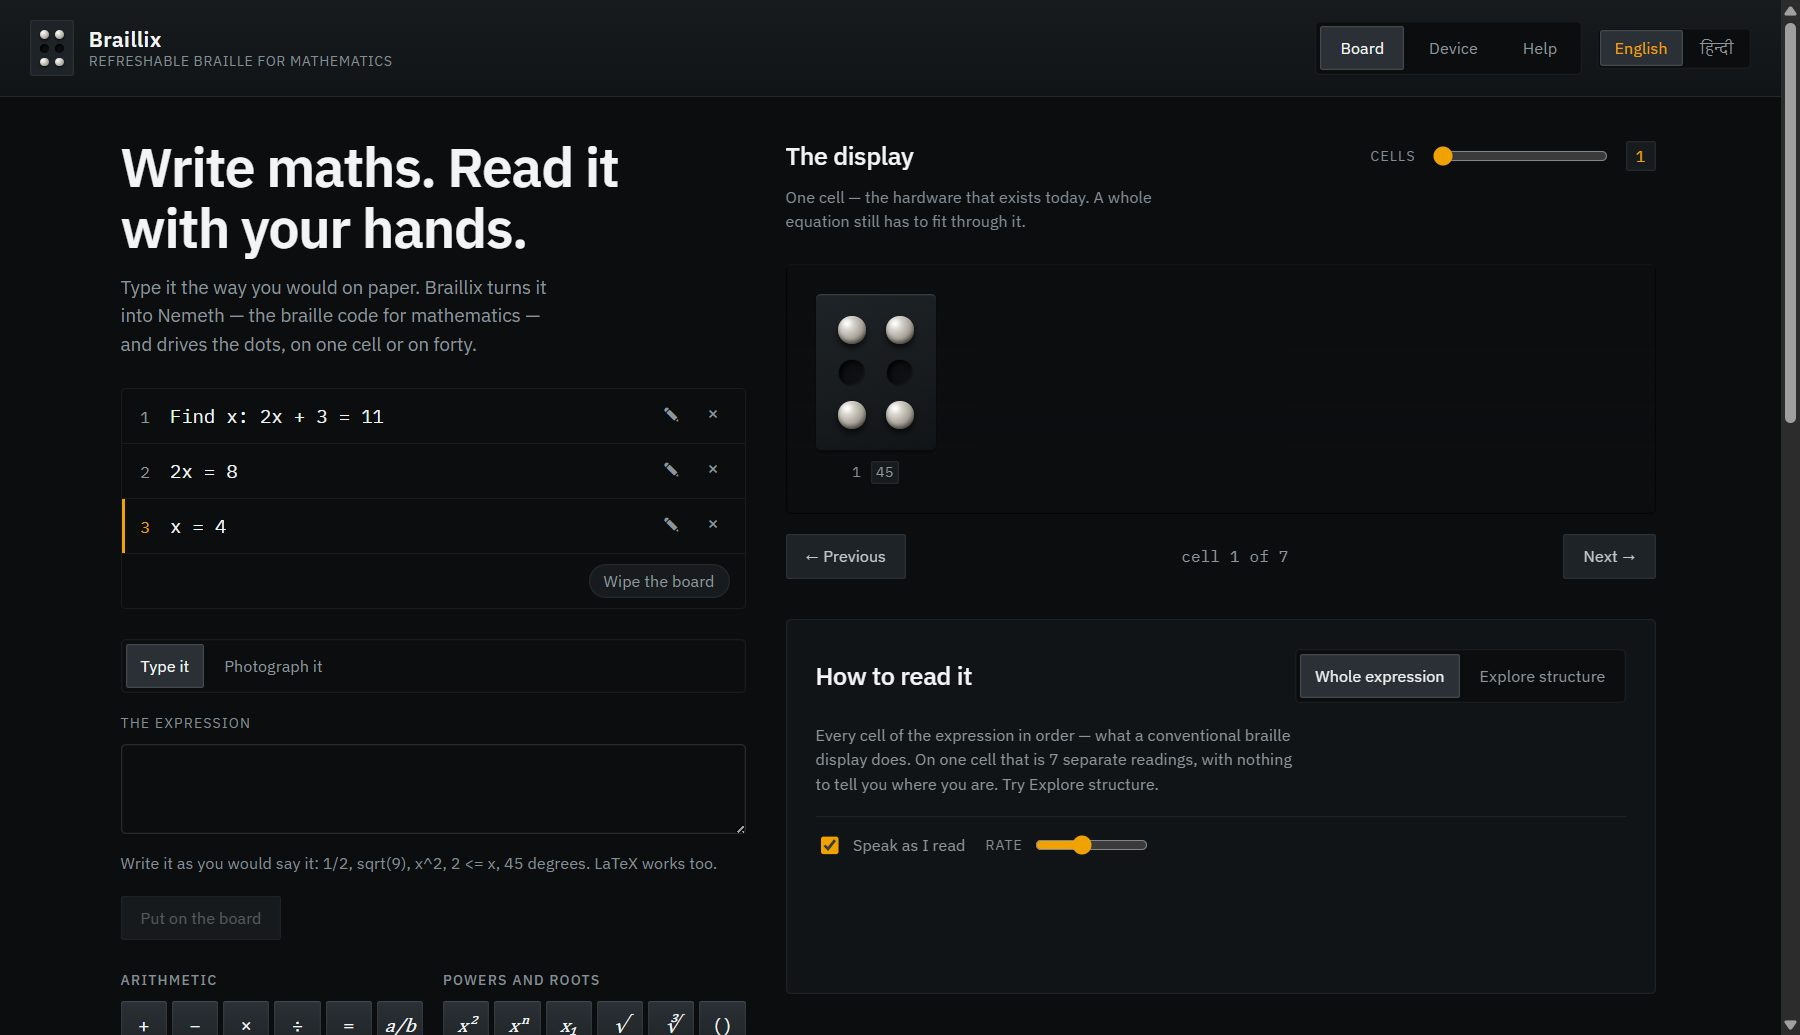
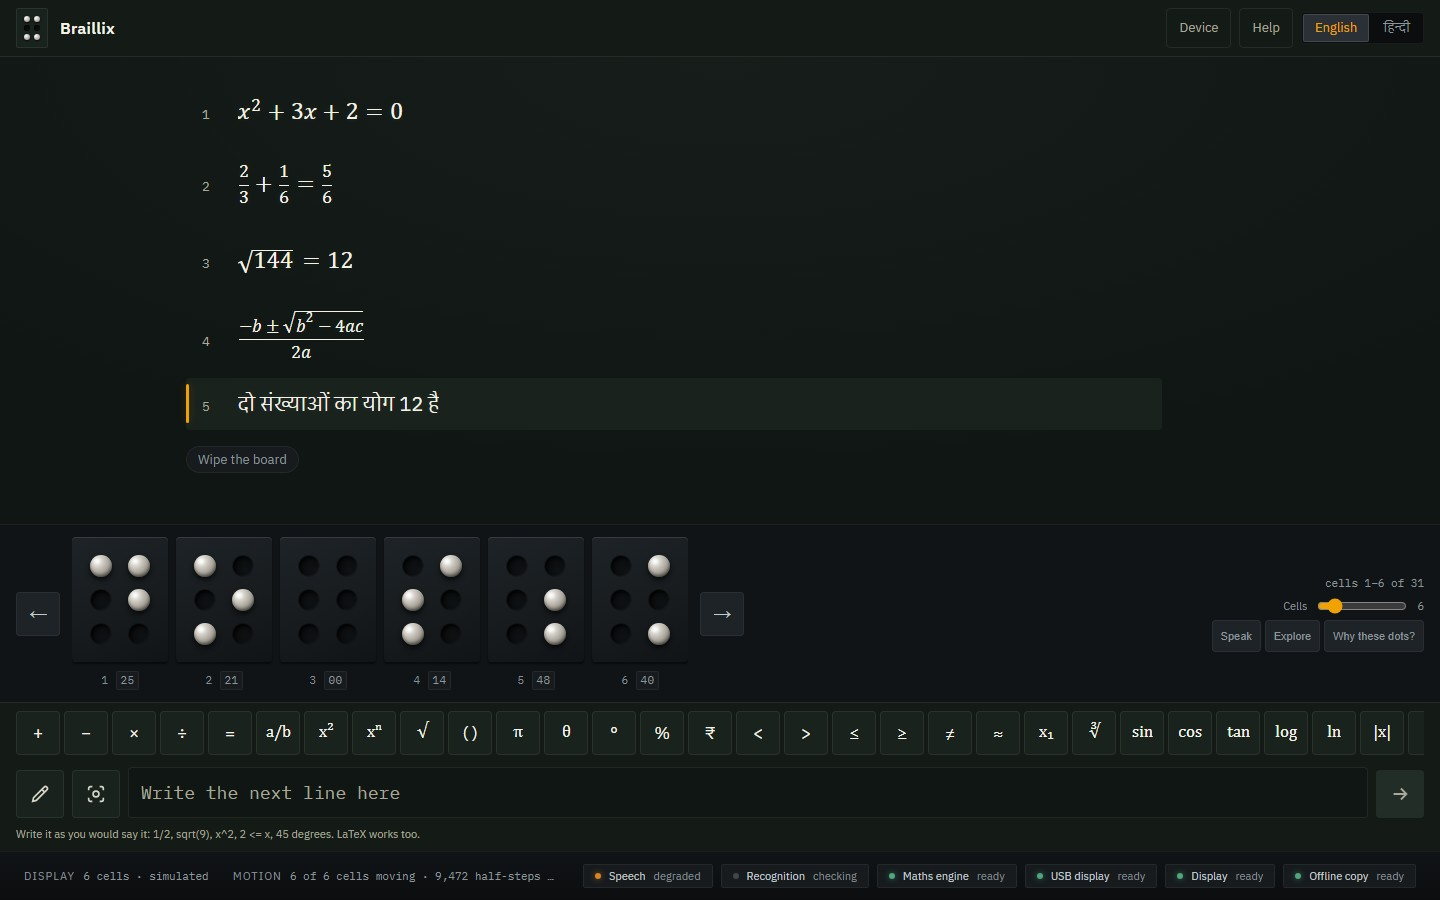
checkpoint(v4/ARC-4): shipped — live heroes, report pack, demo script
Deployed the blackboard to braillix.vercel.app (21/21 deployed-asset checks).
README carries three fresh production captures: the lesson as chalk, the ink
moment (strokes -> reading -> verdict), and the 175/175 syllabus proof at 0.8s
live. REPORT.md updated from the final codebase (v4 surface, in-place
handwriting with its evidence, 101 e2e incl. the ink journeys); DEMO.md is one
page for the panel. Help step 5 now names the pencil. Stale v3 screenshots
removed.

Gates at commit: tsc 0 · lint 0 · unit 666/666 · e2e 101/101.

diff --git a/app/src/ui/i18n.ts b/app/src/ui/i18n.ts
@@ -289,7 +289,7 @@ const STRINGS: Readonly<Record<string, readonly [en: string, hi: string]>> = {
   'help.step2': ['Press Enter and the line goes on the board. Teach the way you write on a blackboard — the question, then the working, line by line. Every line stays on the board, and one press shows any of them again.', 'Enter दबाइए और पंक्ति बोर्ड पर चली जाती है। जैसे ब्लैकबोर्ड पर लिखकर पढ़ाते हैं वैसे ही पढ़ाइए — पहले सवाल, फिर हल, पंक्ति दर पंक्ति। हर पंक्ति बोर्ड पर बनी रहती है, और एक दबाने से फिर दिख जाती है।'],
   'help.step3': ['The display’s arrows — and the Prev/Next buttons on the pod itself — walk the whole lesson: through a long line first, then on to the next line of the working. PageUp and PageDown do the same from the keyboard.', 'डिस्प्ले के तीर — और पॉड के अपने Prev/Next बटन — पूरा पाठ चलकर पढ़ते हैं: पहले लंबी पंक्ति के भीतर, फिर हल की अगली पंक्ति पर। कीबोर्ड से PageUp और PageDown यही करते हैं।'],
   'help.step4': ['With one cell, use Explore structure — a long expression folds into a few cells you can step into.', 'एक ही सेल हो तो “रचना देखिए” चलाइए — लंबा व्यंजक कुछ सेल में सिमट जाता है, जिनमें अंदर जाया जा सकता है।'],
-  'help.step5': ['Scan a question straight out of the textbook with “Photograph it”. Check the reading it shows you — in print and read aloud — and only then put it on the board. Nothing reaches the display until you approve it.', '“फ़ोटो लीजिए” से सवाल सीधे किताब से स्कैन कीजिए। जो पढ़ाई वह दिखाए उसे जाँचिए — छपाई में और बोलकर — और तभी बोर्ड पर भेजिए। आपकी मंज़ूरी के बिना कुछ भी डिस्प्ले तक नहीं पहुँचता।'],
+  'help.step5': ['Write by hand with the pencil, or scan a question straight out of the textbook with the camera. Check the reading it shows you — in print, in braille verdict, read aloud — and only then put it on the board. Nothing reaches the display until you approve it.', 'पेंसिल से हाथ से लिखिए, या कैमरे से सवाल सीधे किताब से स्कैन कीजिए। जो पढ़ाई वह दिखाए उसे जाँचिए — छपाई में, ब्रेल जाँच में, और बोलकर — और तभी बोर्ड पर भेजिए। आपकी मंज़ूरी के बिना कुछ भी डिस्प्ले तक नहीं पहुँचता।'],
 
   'help.keys': ['Keys worth knowing', 'काम के बटन'],
   'help.keysReader': ['move through the expression', 'व्यंजक में चलिए'],

diff --git a/docs/REPORT.md b/docs/REPORT.md
@@ -88,7 +88,7 @@ drills, student records, and any language beyond English and Hindi.
 | Word recognition | tesseract.js 7 (Apache-2.0) with tessdata_fast English + Hindi, fully self-hosted | The words of a textbook question, both scripts, offline |
 | Speech output | Web Speech API, voices from the operating system | Free and offline; absence of a voice is reported, never silent |
 | Hardware link | Custom `Transport` interface with three implementations: simulator, Web Serial (USB), HTTP (Wi-Fi pods) | One interface means the app cannot behave differently on hardware than in the simulator |
-| Testing | Vitest 4 (666 unit tests), Playwright 1.62 (97 end-to-end journeys with screenshots at 390/834/1440 px) | See §7 |
+| Testing | Vitest 4 (666 unit tests), Playwright 1.62 (101 end-to-end journeys with screenshots at 390/834/1440 px) | See §7 |
 | Deployment | Vercel, static, free tier | No server component exists |
 
 Everything is served from the application's own origin — fonts, braille tables, both
@@ -174,8 +174,8 @@ badge, so the teacher's first scan does not pay the load cost.
 |---|---|
 | Unit tests (Vitest) | 666 / 666 passing |
 | TypeScript, ESLint | clean |
-| End-to-end journeys (Playwright, real browser, production build) | 97 / 97 passing, with screenshots at 390 / 834 / 1440 px and a no-horizontal-scroll assertion per screen |
-| Curriculum coverage | 175 / 175 lines across 23 topics (NCERT arc, classes 1–12: arithmetic, fractions, algebra, geometry, trigonometry, logarithms, sequences, sets, vectors, matrices, limits, derivatives, integrals, probability, Hindi worded questions) translate and read back cleanly. Regenerable as `docs/ACCURACY.md`, and re-runnable live by any user from the Help screen ("Prove the syllabus" — measured 2.5 s in-browser) |
+| End-to-end journeys (Playwright, real browser, production build) | 101 / 101 passing, with screenshots at 390 / 834 / 1440 px and a no-horizontal-scroll assertion per screen. Includes two handwriting journeys that draw real mouse strokes on the ink strip, wait for the on-device reading, and follow it through the confirm gate onto the board — and one that proves a hand correction is never overwritten by a later reading |
+| Curriculum coverage | 175 / 175 lines across 23 topics (NCERT arc, classes 1–12: arithmetic, fractions, algebra, geometry, trigonometry, logarithms, sequences, sets, vectors, matrices, limits, derivatives, integrals, probability, Hindi worded questions) translate and read back cleanly. Regenerable as `docs/ACCURACY.md`, and re-runnable live by any user from the Help screen ("Prove the syllabus" — measured 0.8 s on the deployed v4 build, 21 August 2026) |
 | Golden vectors | Nemeth output asserted against dot patterns from the official BANA Nemeth 2022 code book; Bharati output against the NIEPVD/Government of India Bharati Braille standard |
 | Round-trip law | Every expression's cells are read back by engines that share no code with the forward translation; disagreement is displayed, and the cosmetic LaTeX tidier is tested to never change the resulting braille |
 | Recognition speed | Cold press-to-result was 64.2 s (model load dominated); after background warm-up, 1.25 s press-to-result measured even when scanning immediately after page load; steady-state 0.7–2.5 s per scan on a mid-range laptop |

diff --git a/README.md b/README.md
@@ -25,15 +25,15 @@ Braillix is a capstone project built by:
 ## What it looks like
 
 <p align="center">
-  <img src="docs/shots/board-hero.jpeg" alt="The Braillix board: a lesson stack of three lines, the current line's cells lit up as physically-modelled raised dots, and reading controls beside it" width="900">
+  <img src="docs/shots/board-hero.jpeg" alt="The blackboard: a five-line lesson standing as typeset chalk — a quadratic, fractions, a square root, the quadratic formula, and a Hindi question — with the amber marker on the current line, six braille cells showing it below, and the chalk tray with every symbol visible" width="900">
 </p>
 
 <p align="center">
-  <img src="docs/shots/question-scan-hero.jpeg" alt="Scanning a full textbook question: the sentence and the equation each cropped and read separately, shown back in print for the teacher to check before sending" width="900">
+  <img src="docs/shots/ink-hero.jpeg" alt="Writing on the board: hand-drawn chalk strokes on the board's next line, the recognised reading landed in the tray box with its print preview, the green braille verdict underneath, and an honest warning that the line stops mid-expression" width="900">
 </p>
 
 <p align="center">
-  <img src="docs/shots/coverage-proof.jpeg" alt="The Help screen proving the syllabus live: 175 of 175 curriculum lines translate and read back cleanly, across 23 topics, in 1.2 seconds" width="900">
+  <img src="docs/shots/coverage-proof.jpeg" alt="The Help drawer proving the syllabus live on production: 175 of 175 curriculum lines translate and read back cleanly, across 23 topics, in 0.8 seconds" width="900">
 </p>
 
 ## What a lesson looks like
@@ -73,7 +73,7 @@ beneath it, and a chalk tray with every symbol a school line needs always on scr
   artifact — a dead button is a build error, not a discovery.
 - **The syllabus is proven live, by anyone.** Help → "Prove the syllabus" walks all 175
   curriculum lines (arithmetic to calculus, classes 1–12) through the real pipeline in the
-  browser and reads each back — 175/175 clean in ~2.5 s. The same evidence on paper is
+  browser and reads each back — 175/175 clean in under a second on the live site. The same evidence on paper is
   `docs/ACCURACY.md`, regenerated by `npm run accuracy`.
 - **Scanning is fast enough to teach with.** Both recognisers warm in the background at app
   start (the badge says so); press-to-result measured at ~1.25 s, where the cold path used
